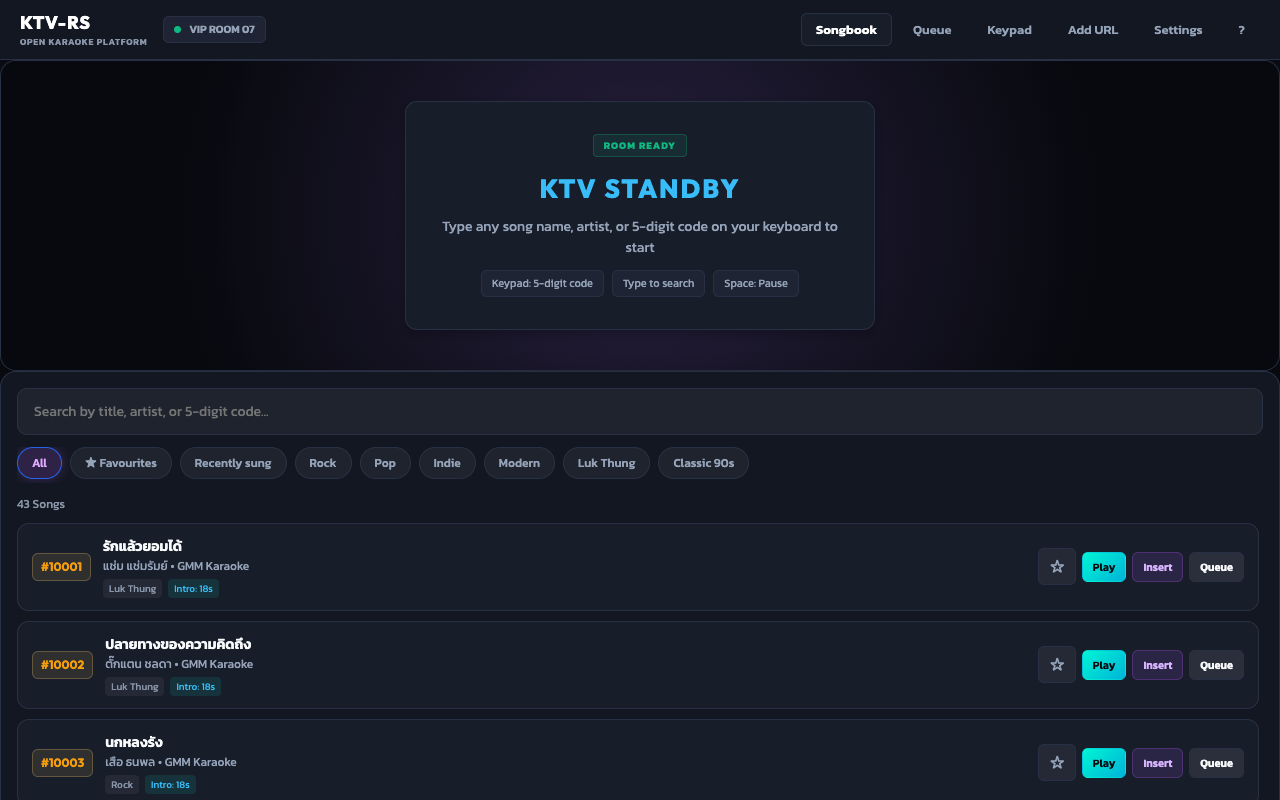
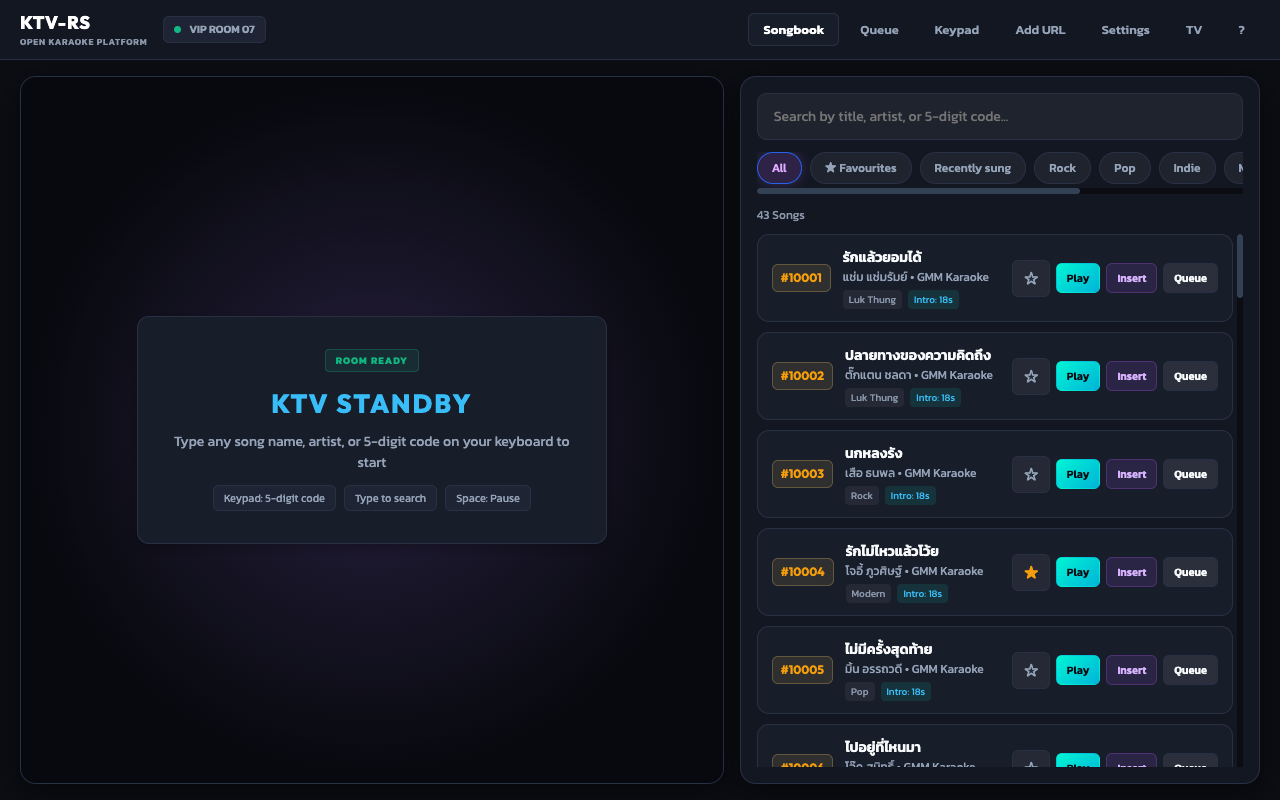
feat: TV mode with Up next; fix desktop split layout swallowed by a stray CSS rule

diff --git a/assets/main.css b/assets/main.css
@@ -440,8 +440,6 @@ body {
     padding: 1px 6px;
     border-radius: 10px;
 }
-    box-shadow: 0 0 8px rgba(255, 0, 127, 0.5);
-}
 
 /* Main Split Stage */
 .ktv-split-stage {
@@ -453,17 +451,86 @@ body {
     padding: 16px 20px;
 }
 
+/* Narrow screens: player and controller stack and the page scrolls (each section at its natural height) */
 @media (max-width: 1080px) {
     .ktv-split-stage {
-        grid-template-columns: 1fr;
-        grid-template-rows: 400px 1fr;
-        overflow-y: auto;
+        display: block;
+        overflow: visible;
     }
     .ktv-app-wrapper {
         height: auto;
         max-height: none;
         overflow-y: auto;
     }
+}
+
+/* TV mode: readable from across the room; the player gets most of the width */
+.ktv-app-wrapper.tv-mode {
+    zoom: 1.25;
+}
+
+/* zoom scales vh too: 80vh x 1.25 = exactly one screen */
+@media (min-width: 1081px) {
+    .ktv-app-wrapper.tv-mode {
+        height: 80vh;
+        max-height: 80vh;
+    }
+}
+
+@media (min-width: 1081px) {
+    .tv-mode .ktv-split-stage {
+        grid-template-columns: 1.6fr 0.8fr;
+    }
+}
+
+.up-next {
+    display: flex;
+    align-items: center;
+    gap: 14px;
+    padding: 10px 16px;
+    border-top: 1px solid var(--border-glass);
+    overflow-x: auto;
+    flex-shrink: 0;
+}
+
+.up-next-label {
+    font-family: var(--font-heading);
+    font-size: 12px;
+    font-weight: 800;
+    letter-spacing: 0.08em;
+    color: var(--accent-cyan);
+    flex-shrink: 0;
+}
+
+.up-next-item {
+    display: flex;
+    align-items: baseline;
+    gap: 8px;
+    min-width: 0;
+    flex-shrink: 0;
+    padding-right: 14px;
+    border-right: 1px solid var(--border-glass);
+}
+
+.up-next-code {
+    font-size: 12px;
+    font-weight: 700;
+    color: var(--accent-amber);
+}
+
+.up-next-title {
+    font-size: 16px;
+    font-weight: 600;
+    color: var(--text-primary);
+    white-space: nowrap;
+}
+
+.up-next-artist,
+.up-next-empty,
+.up-next-more {
+    font-size: 13px;
+    color: var(--text-secondary);
+    white-space: nowrap;
 }
 
 /* Player Stage */

diff --git a/src/main.rs b/src/main.rs
@@ -26,6 +26,7 @@ use components::{
     settings::Settings,
     score_card::ScoreCard,
     shortcuts::ShortcutHelp,
+    up_next::UpNext,
 };
 use recommendation::{SleepTimeAnticipator, SongTelemetry};
 use types::{AppSettings, GuideTrack, KtvTab, QueueItem, Song};
@@ -285,7 +286,7 @@ fn App() -> Element {
 
     rsx! {
 
-        div { class: "ktv-app-wrapper",
+        div { class: if settings().tv_mode { "ktv-app-wrapper tv-mode" } else { "ktv-app-wrapper" },
             // Song changes announced to screen readers
             div { class: "sr-only", role: "status", aria_live: "polite",
                 if let Some(curr) = current_song() {
@@ -298,6 +299,11 @@ fn App() -> Element {
                 queue_len: queue().len(),
                 room_name: settings().room_name.clone(),
                 on_help: move |_| show_help.toggle(),
+                tv_mode: settings().tv_mode,
+                on_toggle_tv: move |_| {
+                    let on = !settings.peek().tv_mode;
+                    settings.write().tv_mode = on;
+                },
             }
 
             // Auto-DJ Toast Notification
@@ -335,6 +341,9 @@ fn App() -> Element {
                             score::record(&mut score_history.write(), result.clone());
                             last_result.set(Some(result));
                         },
+                    }
+                    if settings().tv_mode {
+                        UpNext { queue: queue() }
                     }
                 }
 

diff --git a/src/components/up_next.rs b/src/components/up_next.rs
@@ -1,0 +1,29 @@
+use dioxus::prelude::*;
+
+use crate::types::QueueItem;
+
+/// Songs shown in TV mode's "Up next" strip.
+const SHOWN: usize = 3;
+
+/// TV mode: the next songs under the player, readable from across the room.
+#[component]
+pub fn UpNext(queue: Vec<QueueItem>) -> Element {
+    rsx! {
+        div { class: "up-next", aria_label: "Up next",
+            span { class: "up-next-label", "UP NEXT" }
+            if queue.is_empty() {
+                span { class: "up-next-empty", "Queue is empty: Auto-DJ picks the next song" }
+            }
+            for item in queue.iter().take(SHOWN) {
+                div { key: "{item.queue_id}", class: "up-next-item",
+                    span { class: "up-next-code", "#{item.song.code}" }
+                    span { class: "up-next-title", lang: "th", "{item.song.title}" }
+                    span { class: "up-next-artist", lang: "th", "{item.song.artist}" }
+                }
+            }
+            if queue.len() > SHOWN {
+                span { class: "up-next-more", "+{queue.len() - SHOWN} more" }
+            }
+        }
+    }
+}

diff --git a/src/components/header.rs b/src/components/header.rs
@@ -7,6 +7,8 @@ pub fn Header(
     queue_len: usize,
     room_name: String,
     on_help: EventHandler<()>,
+    tv_mode: bool,
+    on_toggle_tv: EventHandler<()>,
 ) -> Element {
     rsx! {
         header { class: "ktv-header",
@@ -53,6 +55,14 @@ pub fn Header(
                     class: if active_tab() == KtvTab::Settings { "nav-btn active" } else { "nav-btn" },
                     onclick: move |_| active_tab.set(KtvTab::Settings),
                     span { "Settings" }
+                }
+
+                button {
+                    class: if tv_mode { "nav-btn active" } else { "nav-btn" },
+                    title: "TV mode: bigger text and player for a booth or TV screen",
+                    aria_pressed: "{tv_mode}",
+                    onclick: move |_| on_toggle_tv.call(()),
+                    span { "TV" }
                 }
 
                 button {

diff --git a/src/types.rs b/src/types.rs
@@ -68,6 +68,9 @@ pub struct AppSettings {
     /// The shortcut help was closed once; until then it opens on every visit.
     #[serde(default)]
     pub seen_shortcuts: bool,
+    /// Booth / TV screen: larger UI, wider player, "Up next" under the video.
+    #[serde(default)]
+    pub tv_mode: bool,
 }
 
 impl Default for AppSettings {
@@ -80,6 +83,7 @@ impl Default for AppSettings {
             sound_fx_enabled: true,
             show_timing_tools: false,
             seen_shortcuts: false,
+            tv_mode: false,
         }
     }
 }

diff --git a/src/components/mod.rs b/src/components/mod.rs
@@ -9,3 +9,4 @@ pub mod remote;
 pub mod score_card;
 pub mod settings;
 pub mod shortcuts;
+pub mod up_next;

diff --git a/.plans/002_improvement_checklist.md b/.plans/002_improvement_checklist.md
@@ -52,7 +52,7 @@ The score today is tuning precision (held notes vs the semitone grid); there is 
 - [x] 25. Privacy page backing the "Zero Tracking" claim. Done: `public/privacy.html` (every stored key and why, mic stays local, YouTube/Cloudflare/GitHub roles), linked from Settings; **Clear my data on this device** (two taps) removes `ktv.*` + `_ktv_*` only and reloads (`storage::clear_all`, `is_app_key`). Tests: key predicate + e2e (other sites' keys untouched).
 
 ## Wave 8 — platform (Phase 3)
-- [ ] 17. TV / booth mode (10-foot UI).
+- [x] 17. TV / booth mode (10-foot UI). Done: header **TV** toggle (`AppSettings.tv_mode`, serde default): whole UI at `zoom: 1.25`, wider player column, **Up next** strip (next 3) under the player; `80vh` wrapper so the zoomed layout is exactly one screen. **Bug found on the way:** a stray `box-shadow …; }` since the first commit swallowed the `.ktv-split-stage { display: grid }` rule, so the intended side-by-side desktop layout (player left, songbook right, no page scroll) never applied; fixed, narrow screens explicitly keep the stacked layout. e2e: desktop grid + one screen at 1280, TV mode at 1080p (Up next, fits, remembered).
 - [x] 32. PWA: installable, offline app shell. Done (installable part): `manifest.webmanifest` (standalone, theme/background colours), original mic icon (`public/icons/icon.svg` → 512/192/180 PNG + maskable; also replaces the Dioxus-template DNA favicon, 2 KB). Chrome reports no installability errors (normal context); e2e checks manifest + icons. No service worker: playback needs YouTube online anyway, and a SW cache risks serving stale app files after a release; revisit only if an offline songbook is wanted.
 - [ ] 33. Phone remote. `gated:` Durable Objects blocked by Cloudflare `10013`/`10021`; recheck the versions API or pick another transport.
 

diff --git a/CHANGELOG.md b/CHANGELOG.md
@@ -3,6 +3,12 @@
 User-visible changes per release. Live at https://ktv-rs.solana-thailand.workers.dev (Cloudflare Worker version in brackets).
 Format: [Keep a Changelog](https://keepachangelog.com/en/1.1.0/); versions follow [SemVer](https://semver.org/) (0.x: anything may change).
 
+## [0.14.0] - 2026-09-27
+### Added
+- **TV** mode (header button): bigger text and player for a booth or TV screen, with **Up next** under the video.
+### Fixed
+- Desktop layout: player and songbook now sit side by side on one screen as designed (a broken CSS rule had stacked them since the first release). Phones are unchanged.
+
 ## [0.13.0] - 2026-09-27
 ### Added
 - Install as an app (Add to Home Screen / Install): opens in its own window, handy for a karaoke booth or TV.
@@ -79,6 +85,7 @@ Format: [Keep a Changelog](https://keepachangelog.com/en/1.1.0/); versions follo
 ## [0.1.0] - 2026-09-26 (`f1fb63c8`)
 - First public release.
 
+[0.14.0]: https://github.com/ozoneRatchapon/ktv-rs/compare/v0.13.0...v0.14.0
 [0.13.0]: https://github.com/ozoneRatchapon/ktv-rs/compare/v0.12.1...v0.13.0
 [0.12.1]: https://github.com/ozoneRatchapon/ktv-rs/compare/v0.12.0...v0.12.1
 [0.12.0]: https://github.com/ozoneRatchapon/ktv-rs/compare/v0.11.0...v0.12.0

diff --git a/README.md b/README.md
@@ -58,6 +58,7 @@ Live: https://ktv-rs.solana-thailand.workers.dev · Changes: [CHANGELOG.md](CHAN
 
 ### 8. Install as an App
 * Chrome/Edge: **Install**; iPhone/iPad Safari: **Share → Add to Home Screen**. KTV-RS then opens in its own window, which suits a booth PC or TV.
+* **TV** (header): bigger text and player, plus **Up next** under the video, readable from across the room.
 
 ### 9. Mic Pitch Meter & Tuning Score
 * **Mic: On** shows the note you are singing (e.g. `A4 +12¢`), detected in Rust/wasm (McLeod pitch method) from an AudioWorklet. Mic audio never leaves the device. For its first second it measures the room, then ignores anything not clearly louder than the room.
